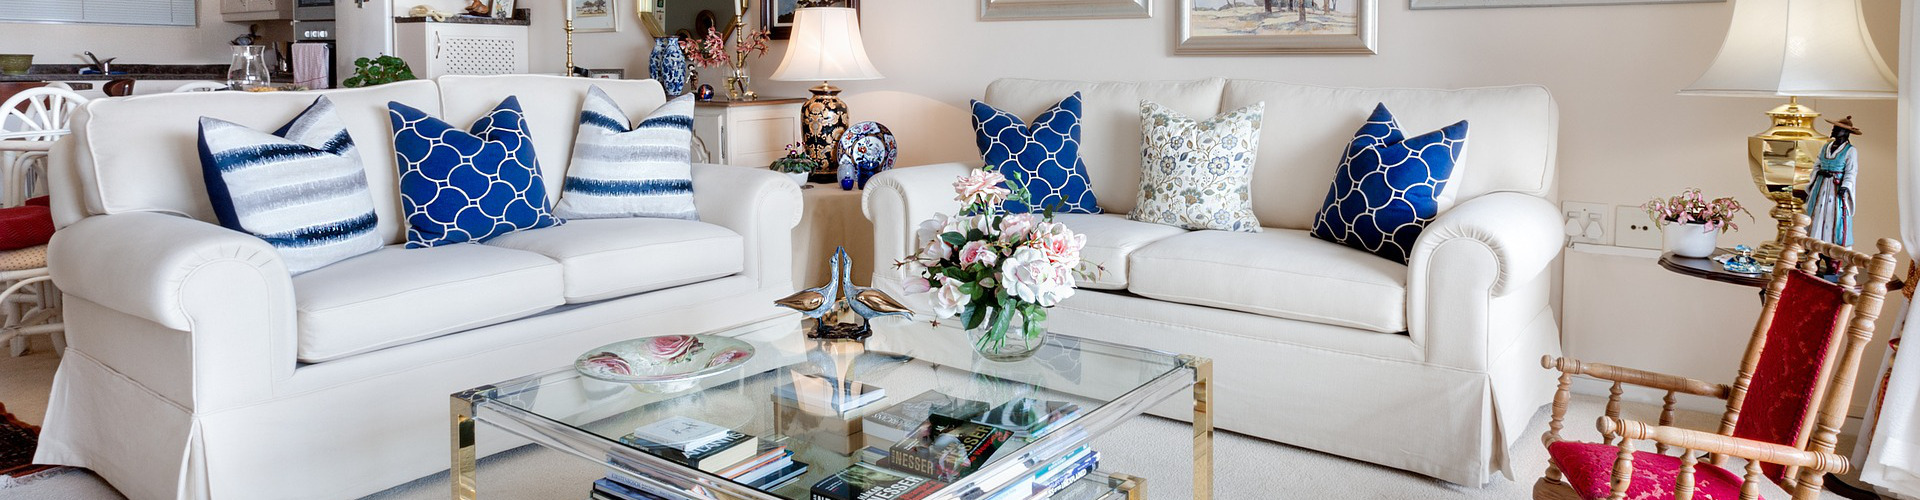
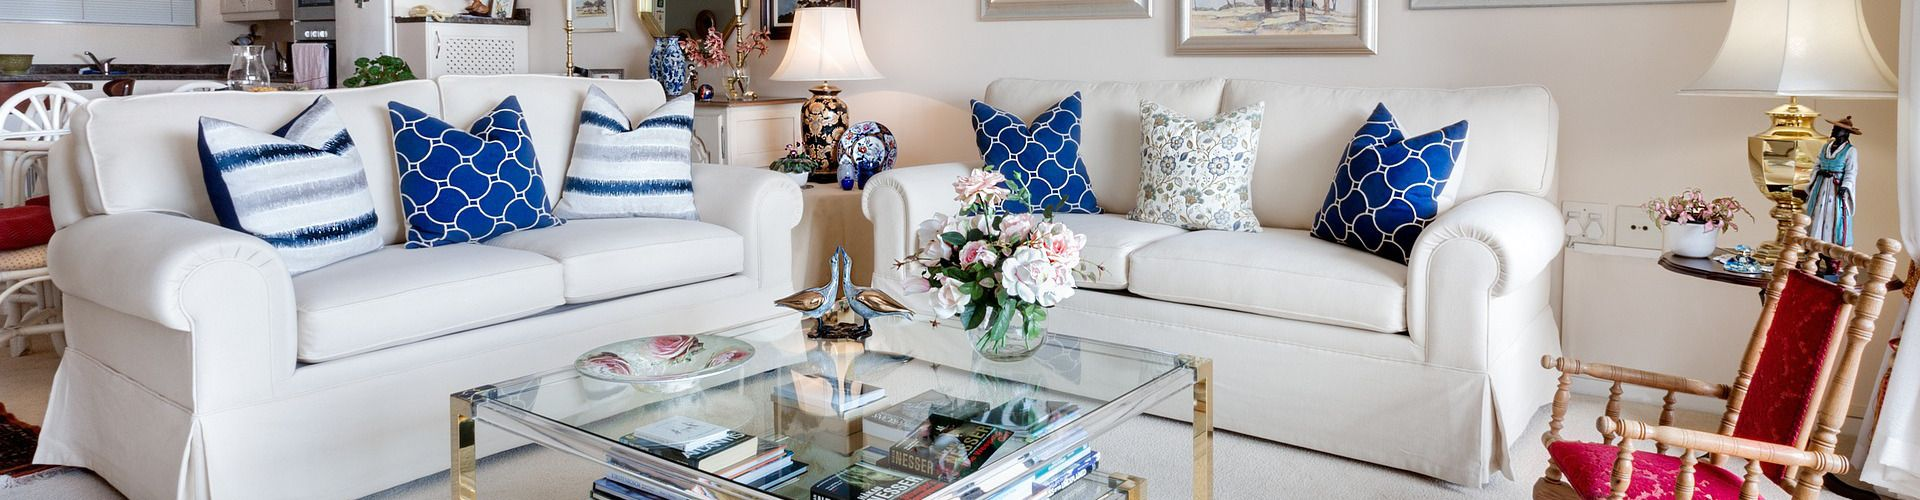
carousel background correction

diff --git a/resources/views/layout/carousel-main.blade.php b/resources/views/layout/carousel-main.blade.php
@@ -5,7 +5,7 @@
                 <!-- Wrapper for slides -->
           <div class="carousel-inner" role="listbox">
             <div class="carousel-item active">
-              <img class="d-block w-100" src="/images/backgrounds/architecture.jpg" alt="Ingatlanfox megoldások">
+              <img class="d-block w-100" src="/images/backgrounds/new/architecture1920x500.jpg" alt="Ingatlanfox megoldások">
               <div class="carousel-caption">
                 <h1 class="text-shadow"><strong>INGATLANFOX PROFESSZIONÁLIS SZOLGÁLTATÁSOK</strong></h1>
               </div>
